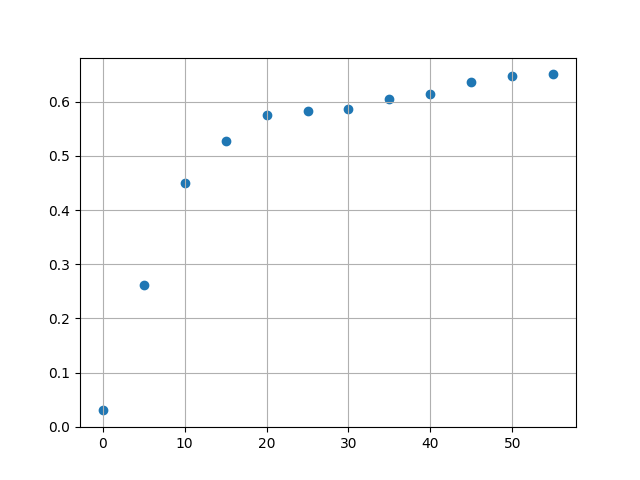
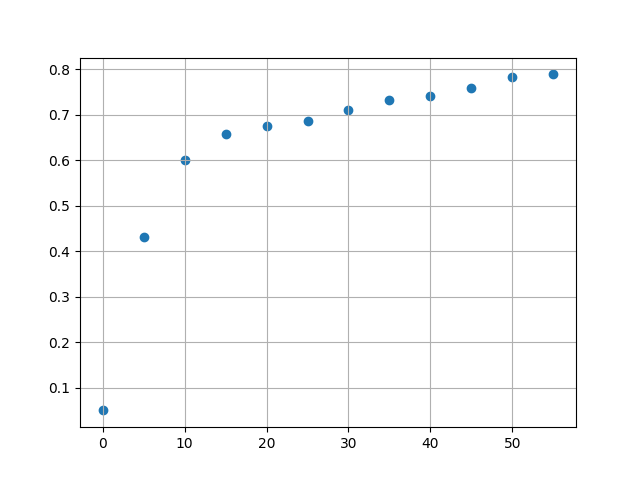
commit

diff --git a/viewpoint-estimation/classification/cnn/soft_labels2/main.py b/viewpoint-estimation/classification/cnn/soft_labels2/main.py
@@ -10,7 +10,7 @@ import os
 def get_arguments():
     parser = argparse.ArgumentParser()
     parser.add_argument("--epochs", default=100, type=int, help="Number of epochs")
-    parser.add_argument("--batch_size", default=128, type=int, help="Batch size")
+    parser.add_argument("--batch_size", default=256, type=int, help="Batch size")
     parser.add_argument("--learning_rate", default=0.0001, type=float, help="Initial learning rate")
     parser.add_argument("--is_training", default=True, type=lambda x: bool(int(x)), help="Training or testing mode")
     return parser.parse_args()
@@ -48,11 +48,11 @@ xtrain = []
 xval = []
 xtest = []
 for i in range(len(x_train)):
-    xtrain.append(cv.resize(x_train[i], (200, 200), interpolation = cv.INTER_AREA))
+    xtrain.append(cv.resize(x_train[i], (100, 100), interpolation = cv.INTER_AREA))
 for i in range(len(x_val)):
-    xval.append(cv.resize(x_val[i], (200, 200), interpolation = cv.INTER_AREA)) 
+    xval.append(cv.resize(x_val[i], (100, 100), interpolation = cv.INTER_AREA)) 
 for i in range(len(x_test)):
-    xtest.append(cv.resize(x_test[i], (200, 200), interpolation = cv.INTER_AREA))
+    xtest.append(cv.resize(x_test[i], (100, 100), interpolation = cv.INTER_AREA))
 
 x_train = np.array(xtrain)
 x_val = np.array(xval)
@@ -64,7 +64,7 @@ print("[INFO] Datasets loaded...")
 
 # Define the model
 
-baseModel = tf.keras.applications.InceptionV3(input_shape=(200, 200, 3), include_top=False, weights="imagenet")
+baseModel = tf.keras.applications.InceptionV3(input_shape=(100, 100, 3), include_top=False, weights="imagenet")
 x = baseModel.output
 x = tf.keras.layers.GlobalAveragePooling2D()(x)
 x = tf.keras.layers.Dense(1024, activation="relu")(x)
@@ -161,7 +161,7 @@ if args.is_training:
         test_accuracy.reset_states()
 else:
 
-    checkpoint.restore(manager.checkpoints[1])
+    checkpoint.restore(manager.checkpoints[0])
     """
     for val_images, val_labels in tqdm(val_data, desc="Validation"):
             test_step(val_images, val_labels)
@@ -179,22 +179,15 @@ else:
     print(template.format(test_loss.result(), test_accuracy.result()))
 
     gt = [np.argmax(label) for label in y_test]
-    #print("GROUND TRUTH:", gt)
-    #print("PREDICTIONS:", pred)
-
-
-    pred_err1 = np.abs(np.array(pred) - np.array(gt)) 
-    pred_err2 = np.abs(-360 + np.array(pred) - np.array(gt))
-    pred_err3 = np.abs(360 + np.array(pred) - np.array(gt))
+    error = np.abs(np.array(pred) - np.array(gt)) % 360
     thresholds = [theta for theta in range(0, 60, 5)]
+
+    print("\n\nMedian error:", np.median(error))
     acc_list = []
-    #theta = 10
+
     for theta in thresholds:
-
-        acc_bool = np.array([pred_err1[i] <= theta or pred_err2[i] <= theta or pred_err3[i] <= theta for i in range(len(pred_err1))])
-
-        acc = np.array([int(i) for i in acc_bool])
-        acc = np.mean(acc)
+        acc_bool = np.array([error[i] <= theta  for i in range(len(error))])
+        acc = np.mean(acc_bool)
         acc_list.append(acc)
         print("Accuracy at theta = {} is: {:.4f}".format(theta, acc))
 

diff --git a/viewpoint-estimation/classification/cnn/soft_labels/main.py b/viewpoint-estimation/classification/cnn/soft_labels/main.py
@@ -162,22 +162,15 @@ else:
     print(template.format(test_loss.result(), test_accuracy.result()))
 
     gt = [np.argmax(label) for label in y_test]
-    #print("GROUND TRUTH:", gt)
-    #print("PREDICTIONS:", pred)
-
-
-    pred_err1 = np.abs(np.array(pred) - np.array(gt)) 
-    pred_err2 = np.abs(-360 + np.array(pred) - np.array(gt))
-    pred_err3 = np.abs(360 + np.array(pred) - np.array(gt))
+    pred_err = np.abs(np.array(pred) - np.array(gt)) % 360
     thresholds = [theta for theta in range(0, 60, 5)]
+
+    print("\n\nMedian error:", np.median(pred_err))
     acc_list = []
-    #theta = 10
+
     for theta in thresholds:
-
-        acc_bool = np.array([pred_err1[i] <= theta or pred_err2[i] <= theta or pred_err3[i] <= theta for i in range(len(pred_err1))])
-
-        acc = np.array([int(i) for i in acc_bool])
-        acc = np.mean(acc)
+        acc_bool = np.array([pred_err[i] <= theta  for i in range(len(pred_err))])
+        acc = np.mean(acc_bool)
         acc_list.append(acc)
         print("Accuracy at theta = {} is: {:.4f}".format(theta, acc))
 
@@ -186,4 +179,4 @@ else:
     plt.scatter(thresholds, acc_list)
     plt.grid(True)
     plt.savefig("accuracy.png")
-    
+  

diff --git a/viewpoint-estimation/classification/cnn/one_hot_labels/main.py b/viewpoint-estimation/classification/cnn/one_hot_labels/main.py
@@ -160,20 +160,17 @@ else:
     print("Test: Loss = {:.4f}\t Accuracy = {:.4f}".format(test_result[0], test_result[1]))
 
 
-    pred_err1 = np.abs(np.array(pred_classes) - np.array(testdf["label"].tolist())) 
-    pred_err2 = np.abs(-360 + np.array(pred_classes) - np.array(testdf["label"].tolist()))
-    pred_err3 = np.abs(360 + np.array(pred_classes) - np.array(testdf["label"].tolist()))
+    pred_err = np.abs(np.array(pred_classes) - np.array(testdf["label"].tolist())) 
     thresholds = [theta for theta in range(0, 60, 5)]
+    
+    print("\n\nMedian error:", np.median(pred_err))
     acc_list = []
-    #theta = 10
+
     for theta in thresholds:
-
-        acc_bool = np.array([pred_err1[i] <= theta or pred_err2[i] <= theta or pred_err3[i] <= theta for i in range(len(pred_err1))])
-
-        acc = np.array([int(i) for i in acc_bool])
-        acc = np.mean(acc)
+        acc_bool = np.array([pred_err[i] <= theta  for i in range(len(pred_err))])
+        acc = np.mean(acc_bool)
         acc_list.append(acc)
-        print("Accuracy at theta = {} is: {}".format(theta, acc))
+        print("Accuracy at theta = {} is: {:.4f}".format(theta, acc))
 
         
     plt.figure()
